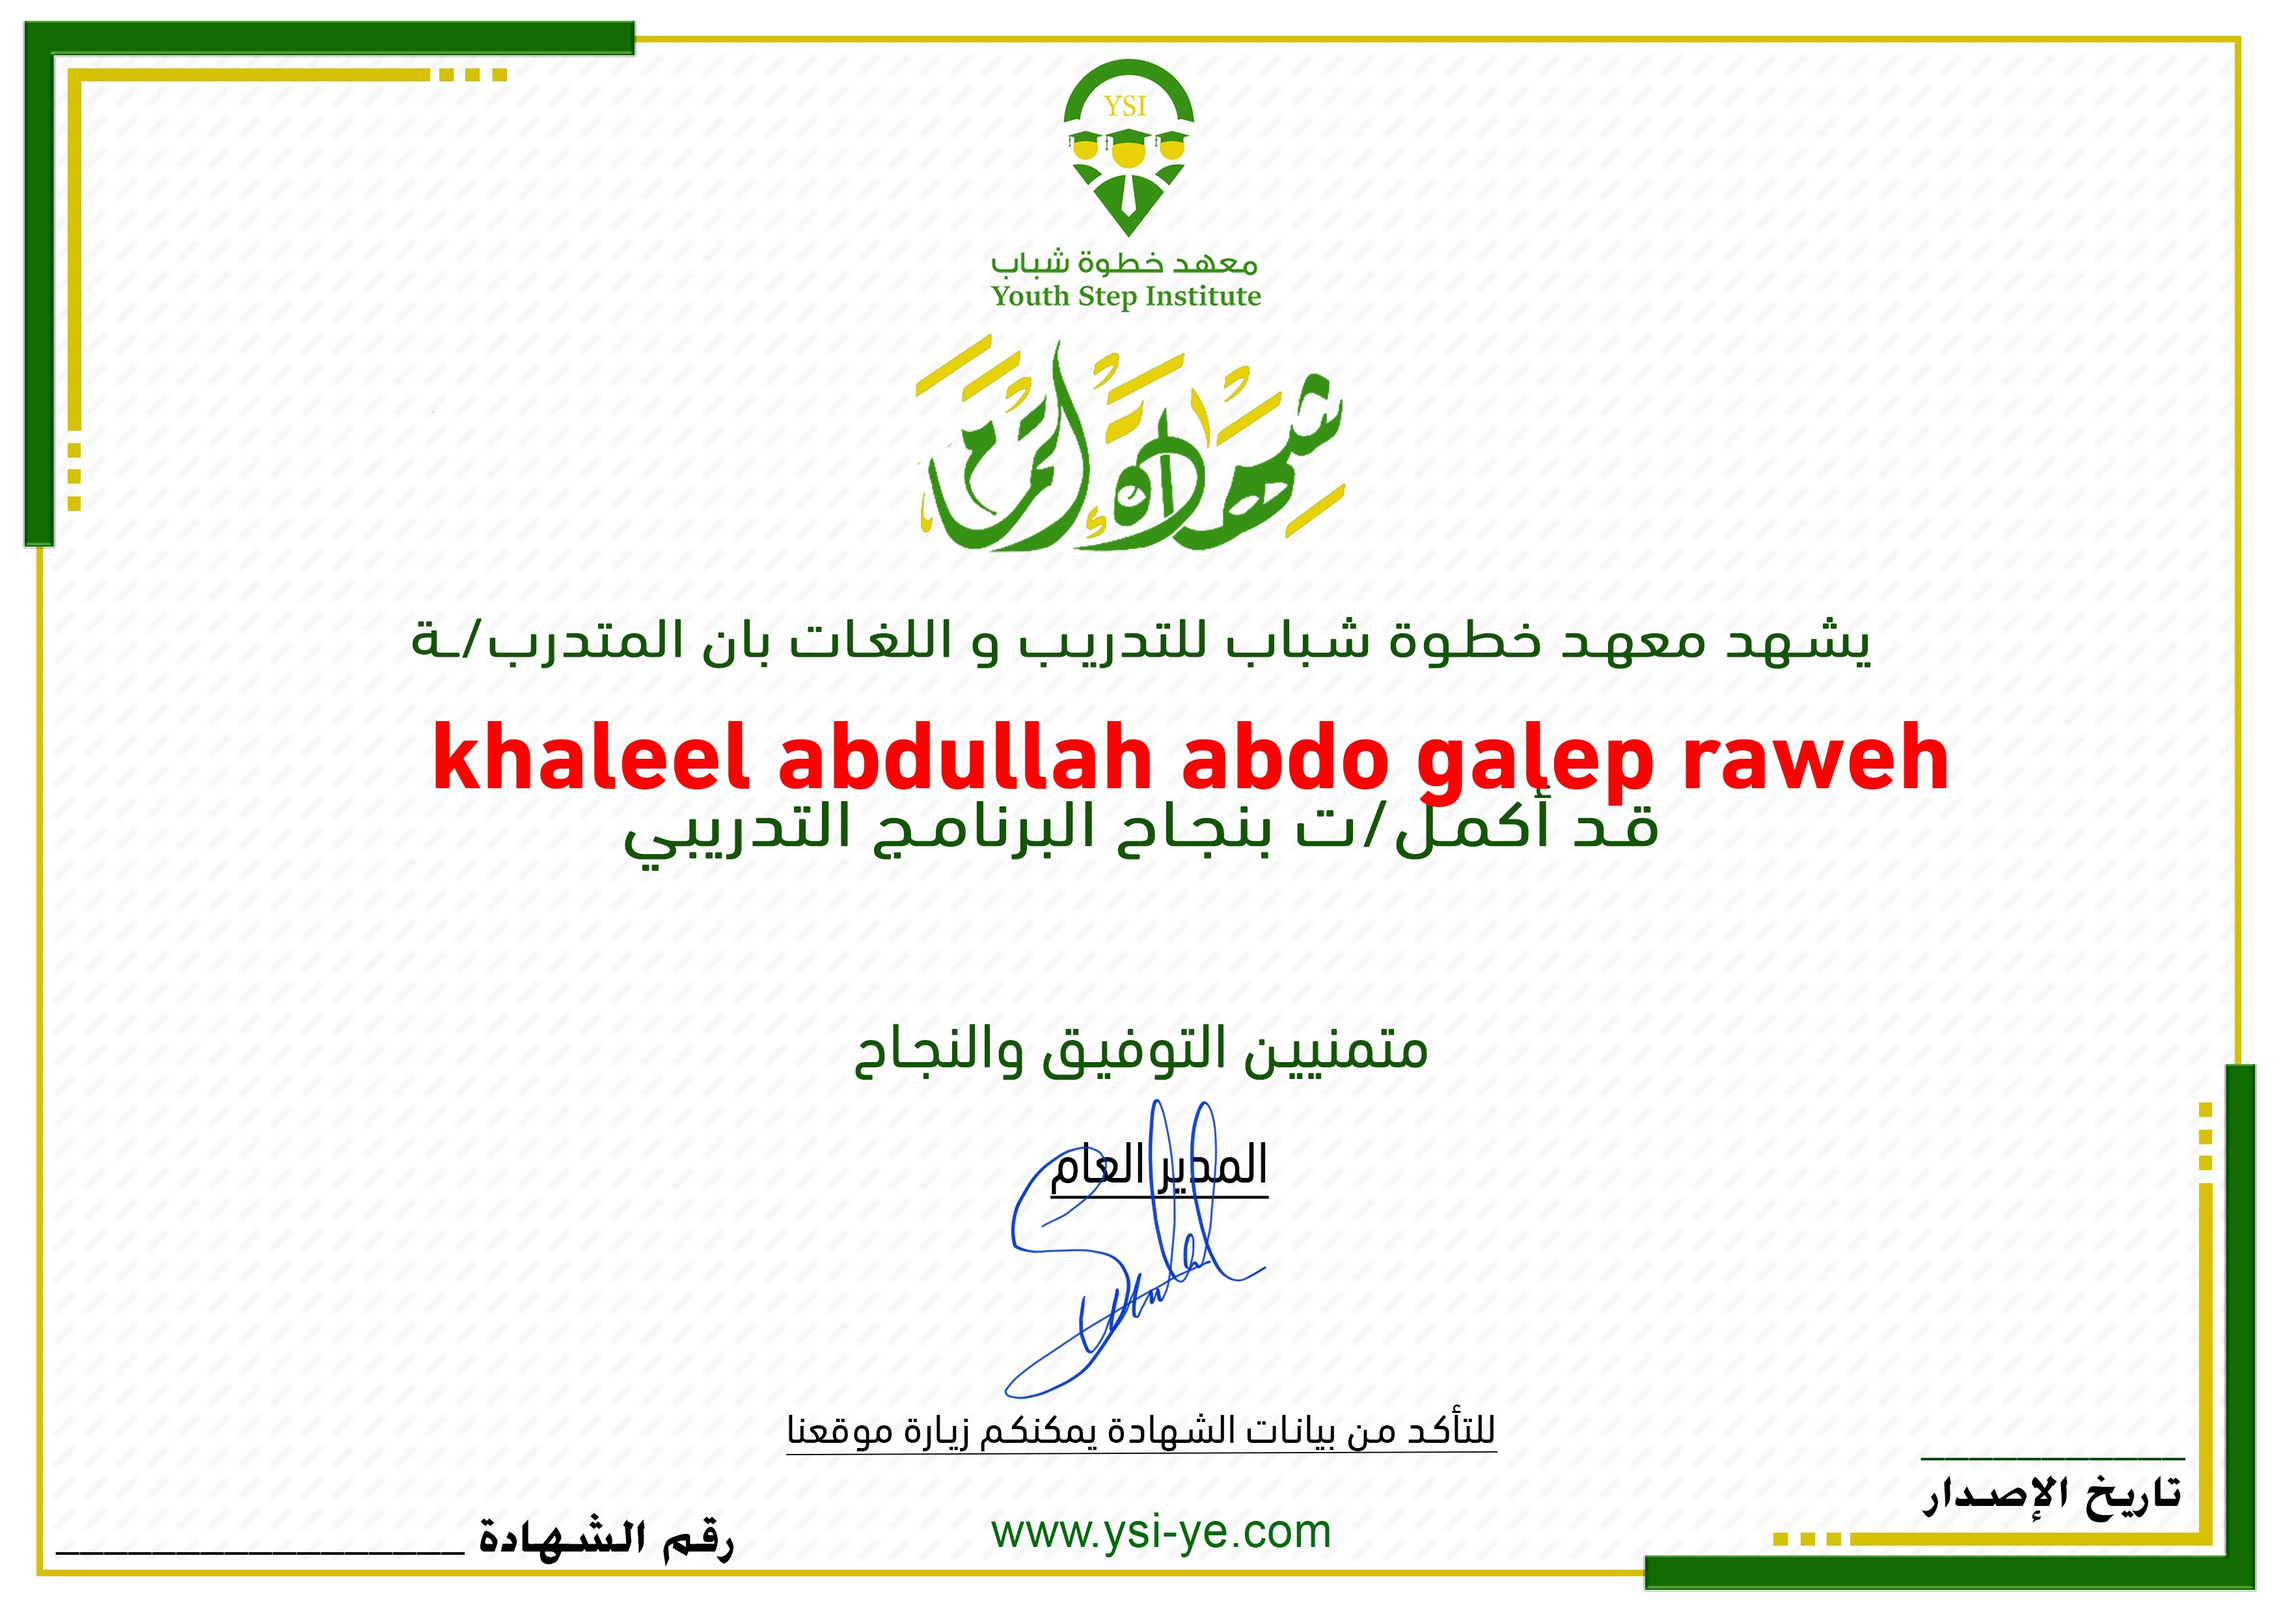
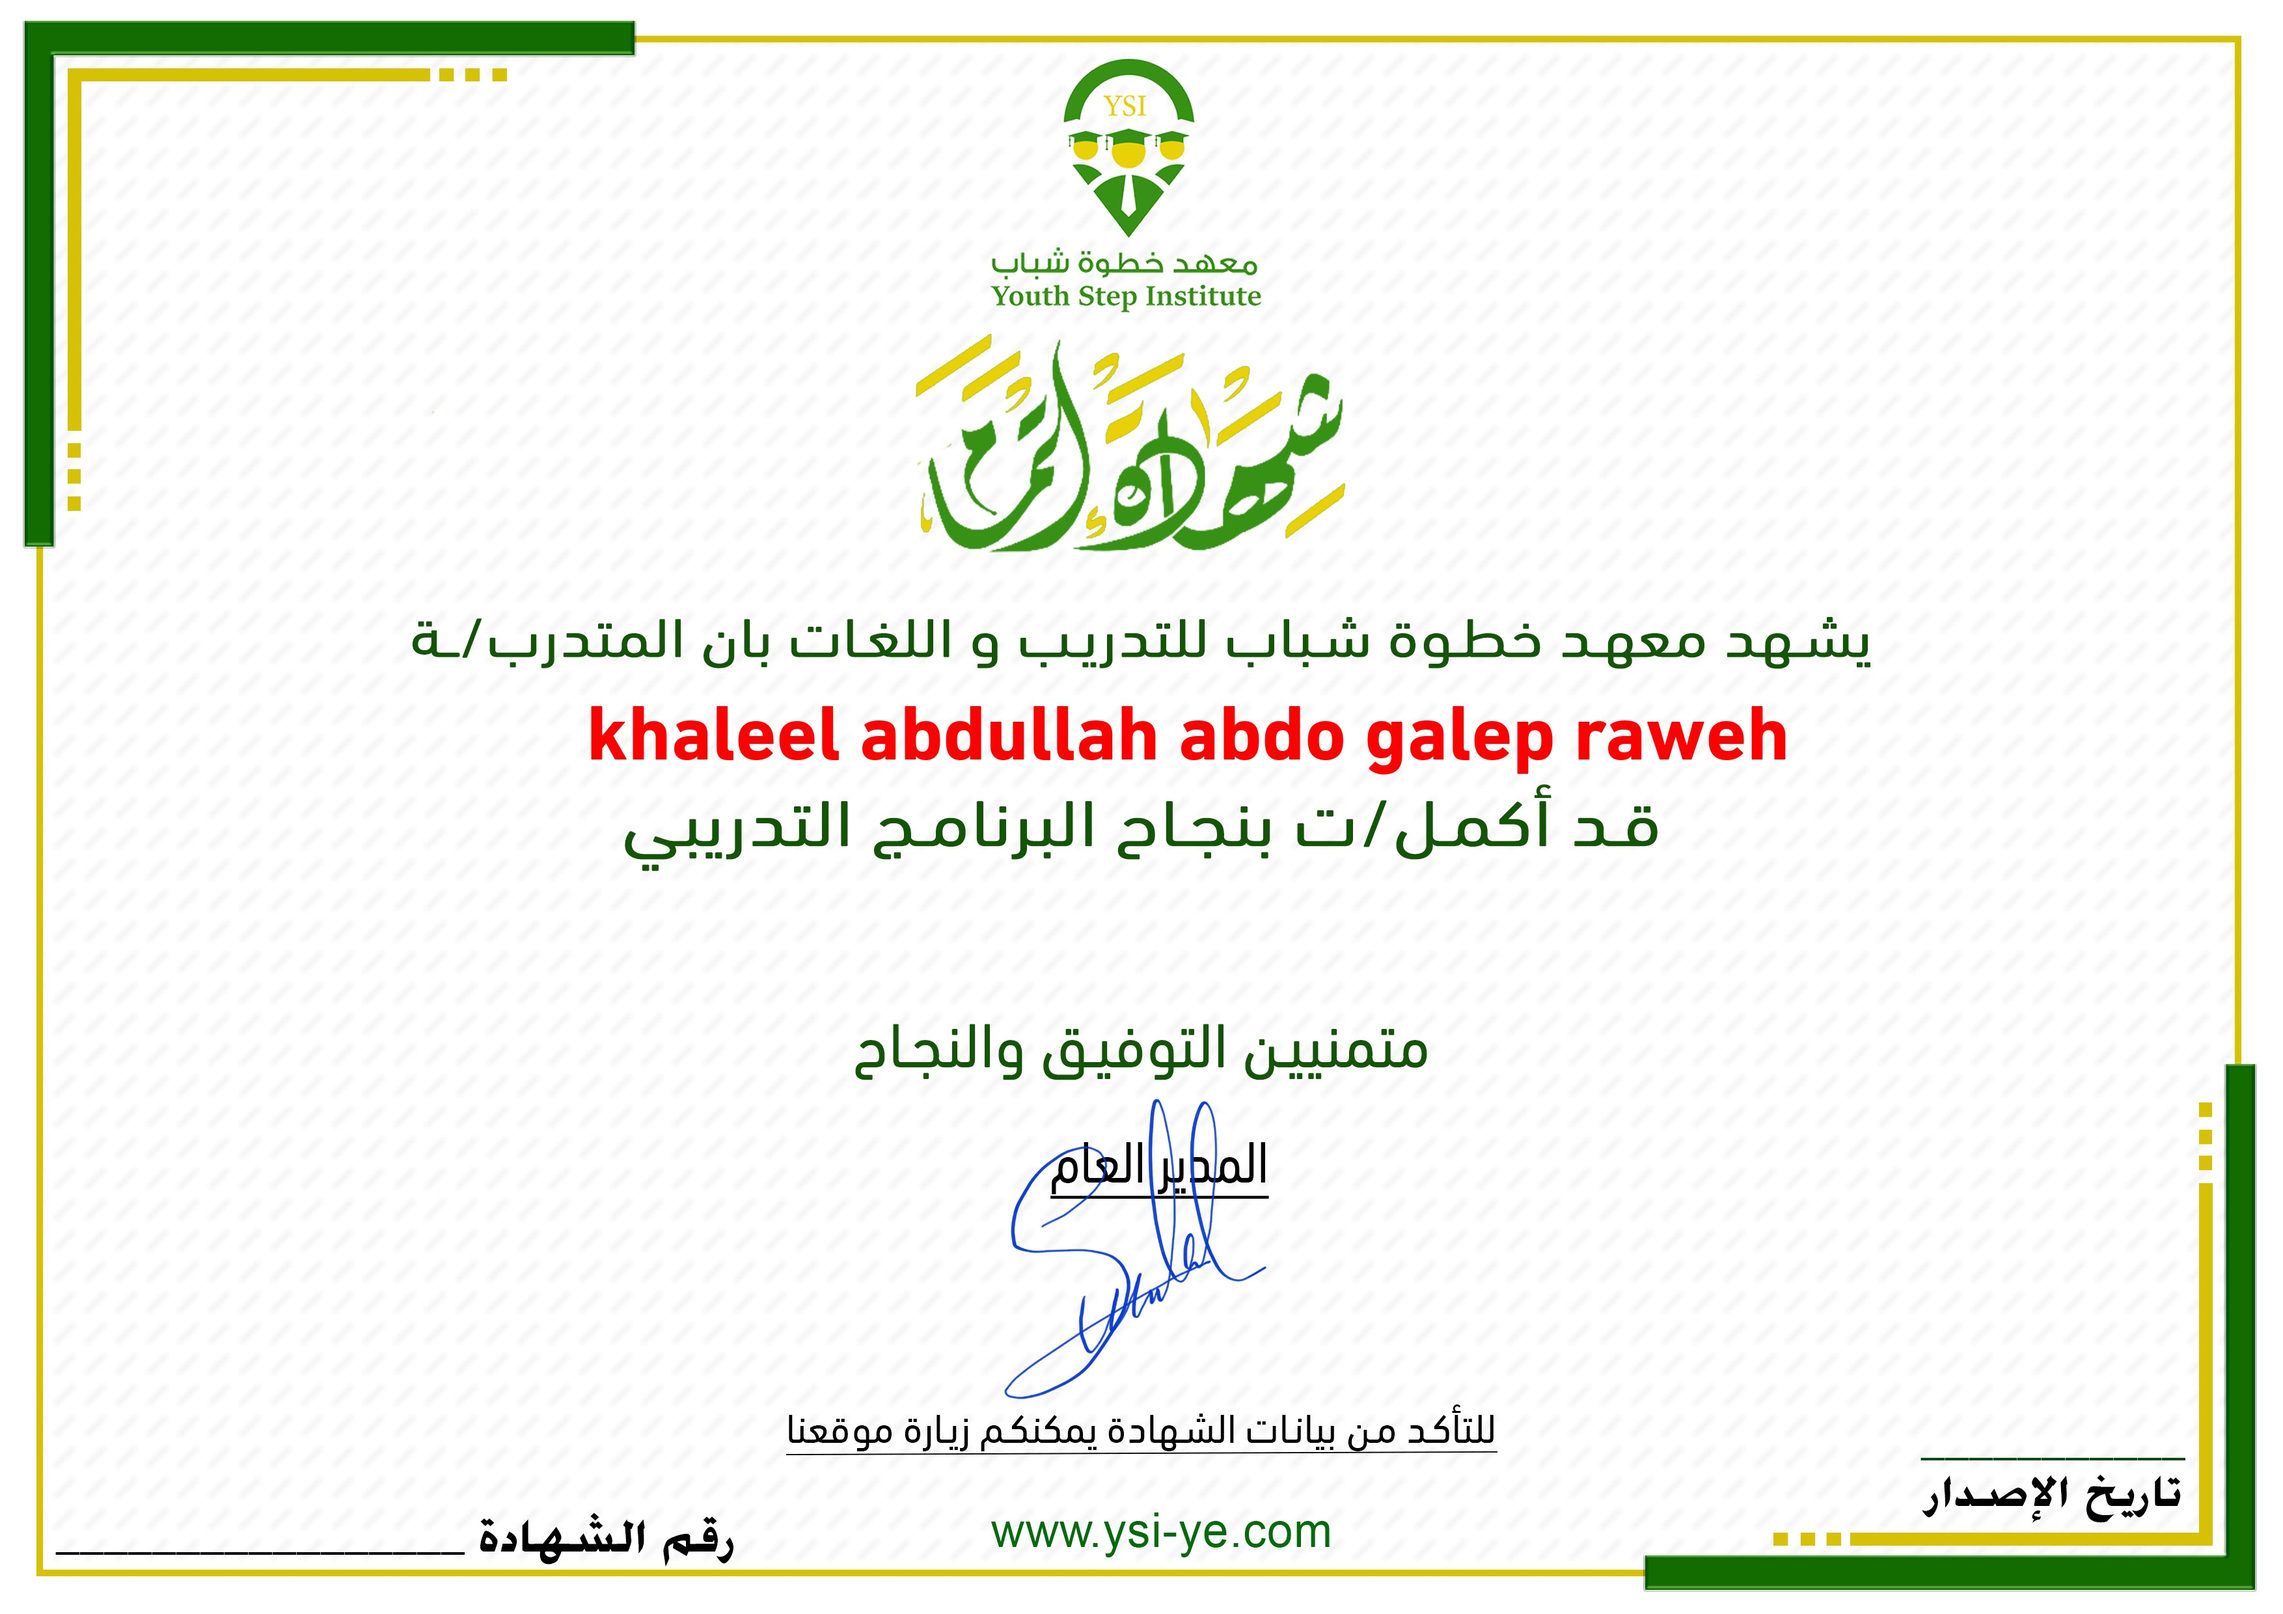
save all

Changed region(s): [[0.1864, 0.4347, 0.87, 0.4968]]

diff --git a/app/Http/Controllers/Frontend/CustomerController.php b/app/Http/Controllers/Frontend/CustomerController.php
@@ -146,7 +146,7 @@ class CustomerController extends Controller
         $userName = $arabic->utf8Glyphs($request->full_name);
 
         $fontPath = public_path('fonts/DINNextLTArabic-Bold-2.ttf');
-        $fontSize = 150;
+        $fontSize = 120;
 
 
         $cover = Image::make('assets/certifications/certificate.jpg');
@@ -158,12 +158,15 @@ class CustomerController extends Controller
 
 
         // $width - ($width / 2)
+        //$height - 1240
 
         // Calculate X and Y positions to center the text
         $x = $width - ($width - $textBoxWidth) / 2;
+        $y =   ($height / 2) - 50; // Adjust for font height
+
 
         // $cover->text($userName, $width - 1700,  $height - 1240, function ($font) {
-        $cover->text($userName, $x,  $height - 1240, function ($font) use ($fontPath, $fontSize) {
+        $cover->text($userName, $x,  $y, function ($font) use ($fontPath, $fontSize) {
             $font->file($fontPath);
             $font->size($fontSize);
             $font->color('#ff0000');
